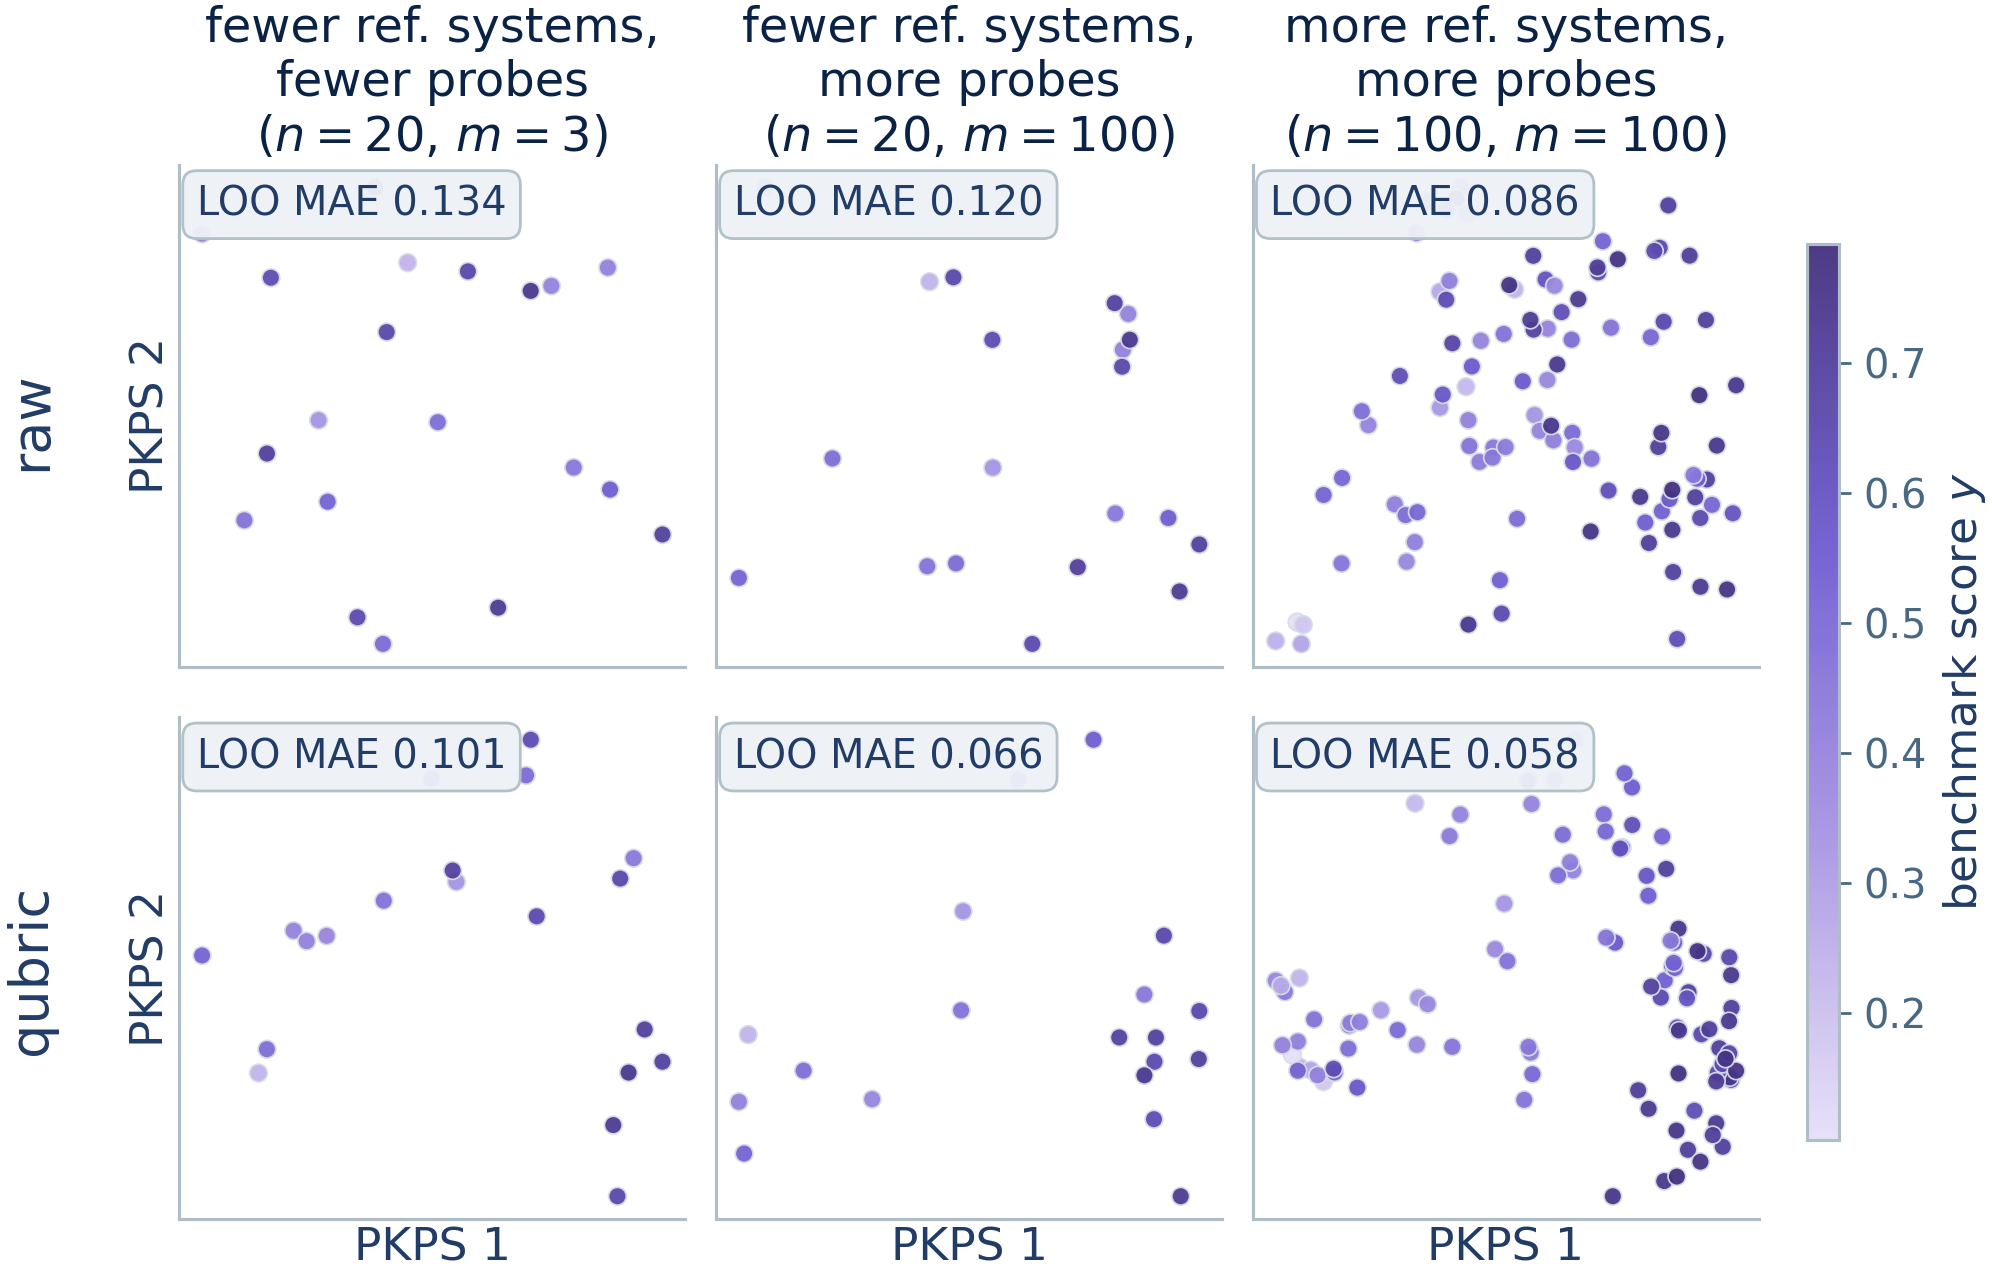
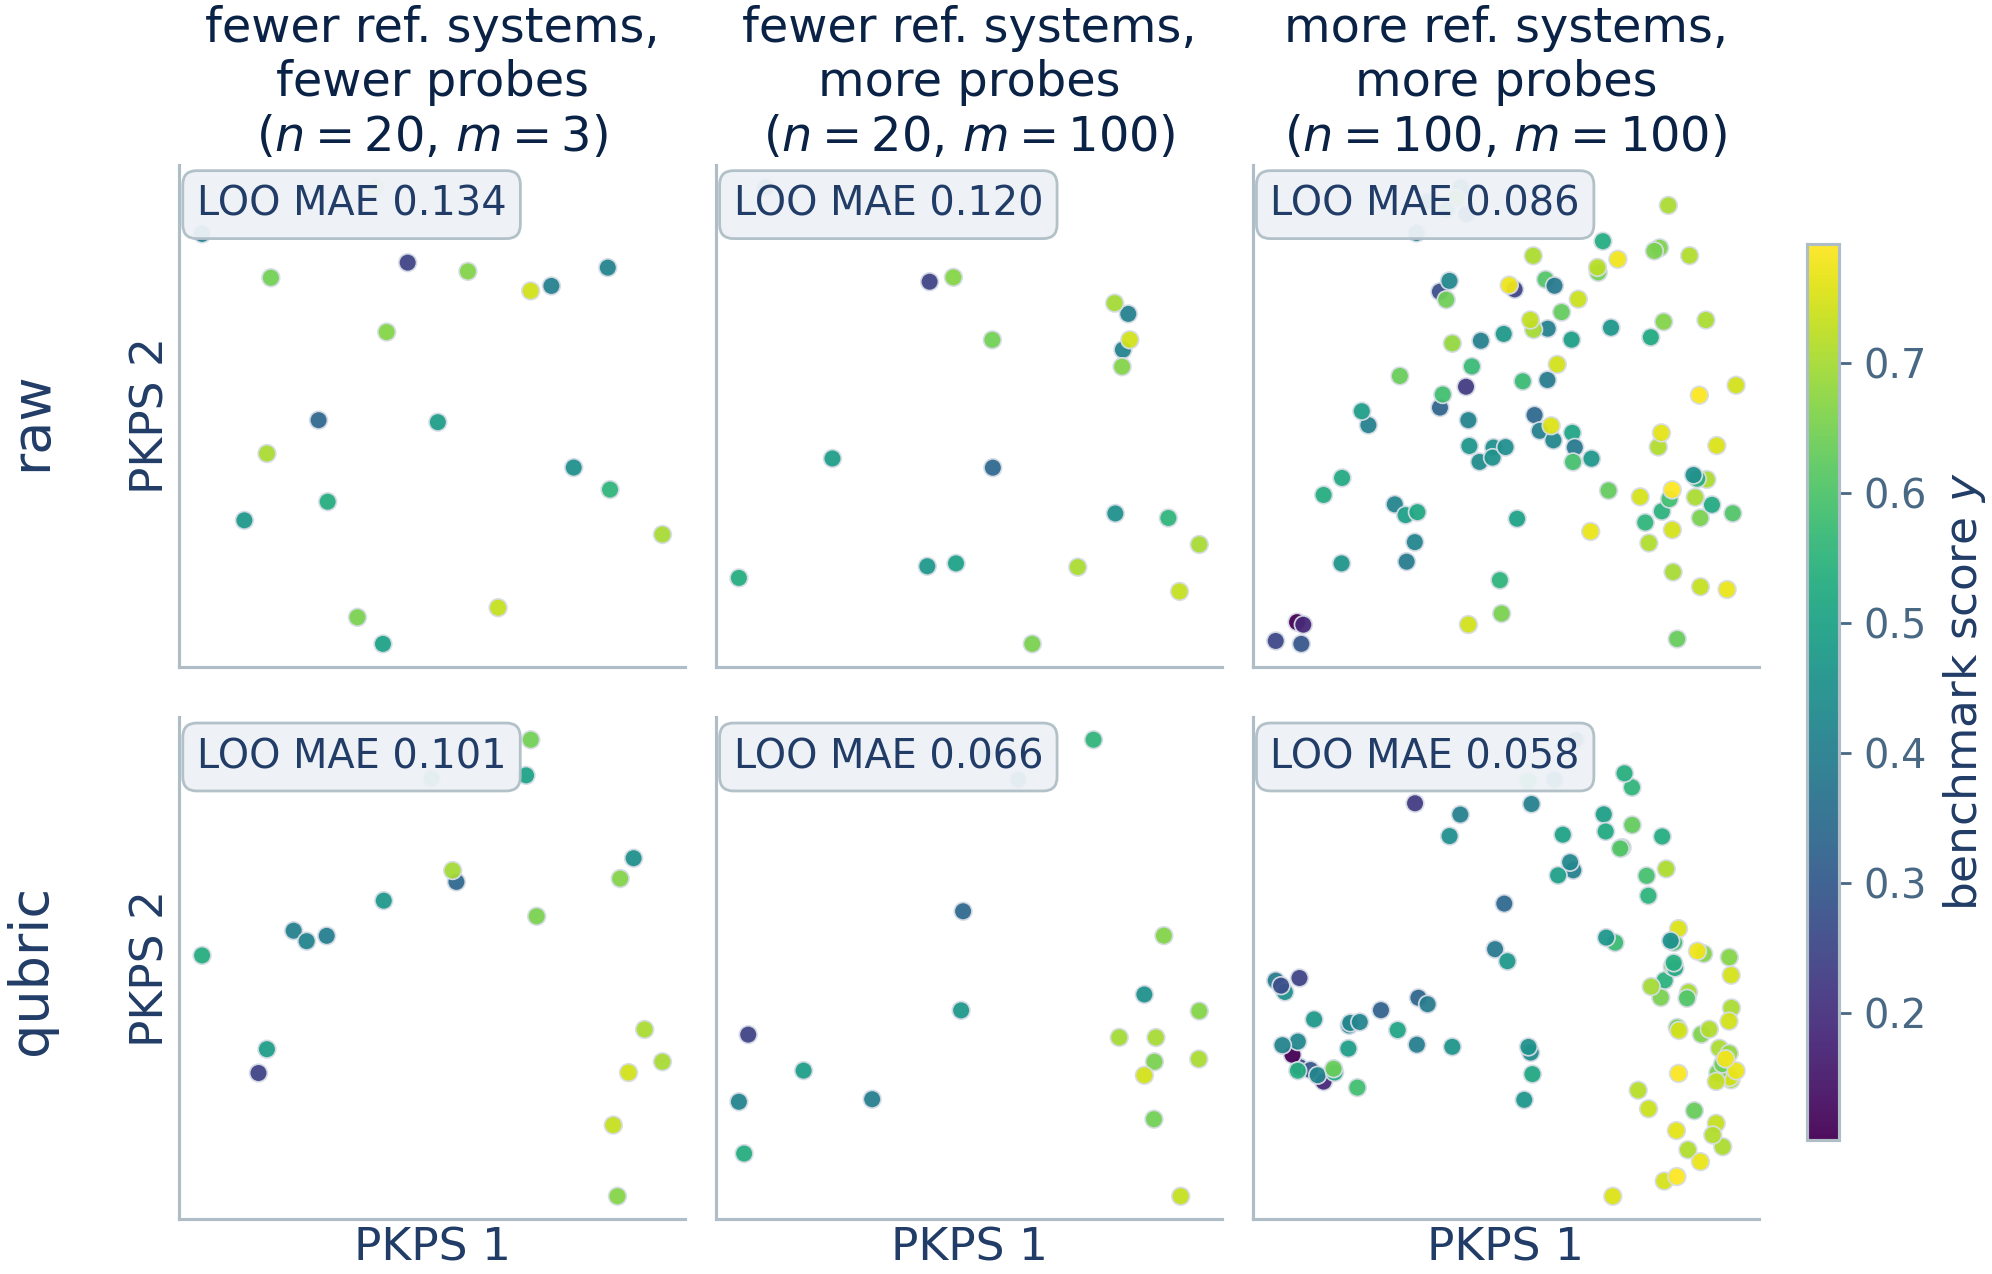
fig2: viridis for continuous score (single-hue ramp compressed range)
Claude-Session: https://claude.ai/code/session_01RGusFFXzoPTkSKgzzDLjNv

diff --git a/scripts/fig2_nm.py b/scripts/fig2_nm.py
@@ -106,8 +106,7 @@ def main():
             D = pkps_D(X, sub, cols)
             Z = procrustes(cmds2(D), ref_full[sub])
             ax = axes[r, c]
-            sc = ax.scatter(Z[:, 0], Z[:, 1], c=y[sub],
-                            cmap=hv_style.CMAP_RESERVE,
+            sc = ax.scatter(Z[:, 0], Z[:, 1], c=y[sub], cmap='viridis',
                             vmin=y.min(), vmax=y.max(), s=26, alpha=.95,
                             edgecolors=hv_style.EDGE, lw=.5)
             ax.text(.035, .96, f'LOO MAE {loo_mae(D, y[sub]):.3f}',
